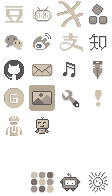
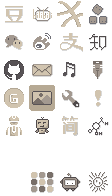
访客统计

Changed region(s): [[0.7768, 0.5816, 0.9911, 0.7041], [0.5357, 0.5816, 0.6964, 0.7041]]

diff --git a/src/assets/js/configs/pages.js b/src/assets/js/configs/pages.js
@@ -2,9 +2,9 @@ export default [
   {
     id: 0,
     groups: [
-      { title: { zh: 'App作品', en: 'Apps' }, apps: ['xinzhitong', 'tingxie'] },
-      { title: { zh: '网页作品', en: 'Websites' }, apps: [] },
-      { title: { zh: 'GUI应用', en: 'GUI Apps' }, apps: [] },
+      { title: { zh: 'App 作品', en: 'Apps' }, apps: ['xinzhitong', 'tingxie'] },
+      { title: { zh: '网页作品', en: 'Websites' }, apps: ['practice'] },
+      { title: { zh: '桌面应用', en: 'Desktop' }, apps: [] },
       { title: { zh: '小玩意', en: 'Gadgets' }, apps: [] },
     ],
   },
@@ -12,13 +12,11 @@ export default [
     id: 1,
     groups: [
       { title: { zh: '社交网络账号', en: 'Social Networks' }, apps: ['gitee', 'github', 'dribbble', 'weibo', 'douban', 'zhihu', 'bilibili'] },
-      { title: { zh: '联系方式', en: 'Contacts ' }, apps: ['blog', 'email', 'comment'] },
+      { title: { zh: '联系方式', en: 'Contacts ' }, apps: ['blog', 'email', 'resume', 'comment'] },
     ],
   },
   {
     id: 2,
-    groups: [
-      { title: { zh: '小工具', en: 'Tools' }, apps: [] },
-    ],
+    groups: [{ title: { zh: '小工具', en: 'Tools' }, apps: [] }],
   },
 ]

diff --git a/public/index.html b/public/index.html
@@ -1,13 +1,22 @@
 <!DOCTYPE html>
 <html lang="zh">
   <head>
-    <meta charset="utf-8">
-    <meta http-equiv="X-UA-Compatible" content="IE=edge">
-    <meta name="viewport" content="width=device-width,initial-scale=1.0">
-    <link rel="icon" href="logo.png">
+    <meta charset="utf-8" />
+    <meta http-equiv="X-UA-Compatible" content="IE=edge" />
+    <meta name="viewport" content="width=device-width,initial-scale=1.0" />
+    <link rel="icon" href="logo.png" />
     <title>YuuFen</title>
   </head>
   <body>
+    <div style="display:none">
+      <script type="text/javascript">
+        document.write(
+          unescape(
+            "%3Cspan id='cnzz_stat_icon_1278642807'%3E%3C/span%3E%3Cscript src='https://s9.cnzz.com/z_stat.php%3Fid%3D1278642807%26show%3Dpic1' type='text/javascript'%3E%3C/script%3E",
+          ),
+        )
+      </script>
+    </div>
     <noscript>
       <strong>We're sorry but yuufen doesn't work properly without JavaScript enabled. Please enable it to continue.</strong>
     </noscript>

diff --git a/src/assets/js/configs/icons.js b/src/assets/js/configs/icons.js
@@ -10,6 +10,24 @@ export default {
     logoTheme: themes.medium,
     link: 'https://www.douban.com/',
   },
+  resume: {
+    name: {
+      zh: '简历',
+      en: 'Resume',
+    },
+    pos: [2, 4],
+    logoTheme: themes.medium,
+    link: 'https://www.douban.com/',
+  },
+  practice: {
+    name: {
+      zh: '练习集',
+      en: 'Practice',
+    },
+    pos: [3, 4],
+    logoTheme: themes.light,
+    link: '/practice',
+  },
   tingxie: {
     name: {
       zh: '***',
